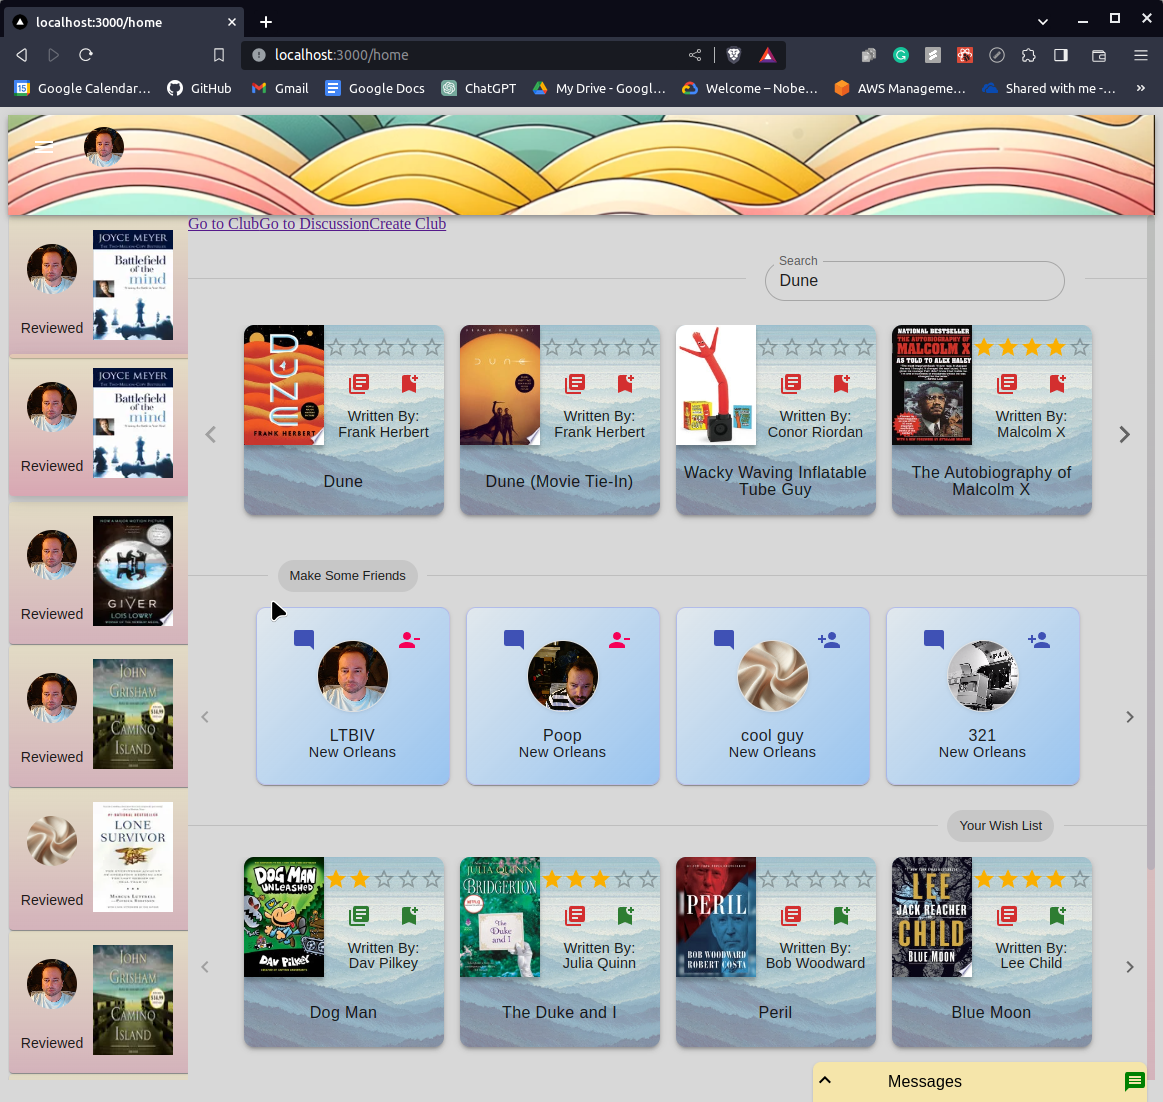
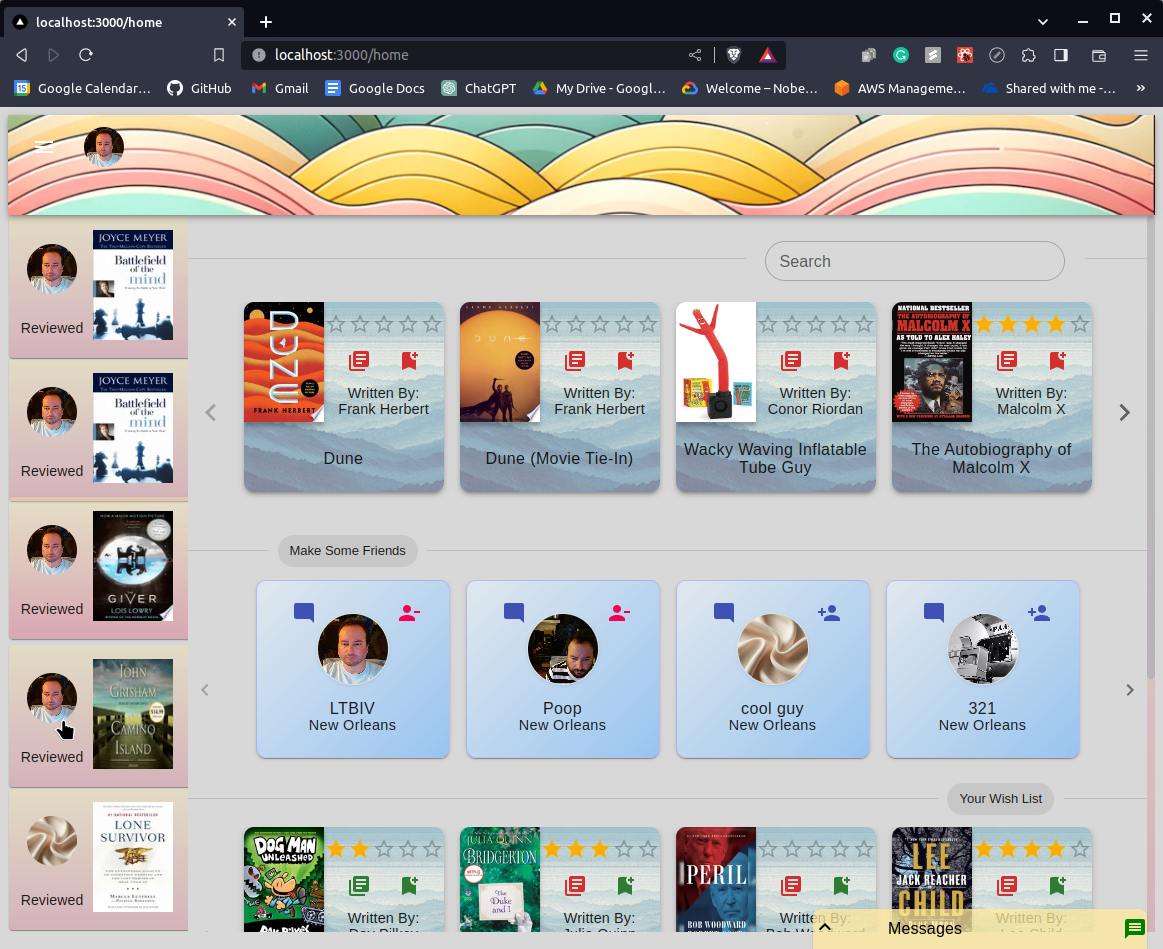
updated home page image in read me

diff --git a/src/pages/home.tsx b/src/pages/home.tsx
@@ -96,7 +96,7 @@ const Home: React.FC<HomeProps> = memo(
 
         {books && !isLoading && (
           <>
-            <Link href='/createClub'>Create Club</Link>
+            {/* <Link href='/createClub'>Create Club</Link> */}
             <ExploreBooksBox books={books} setBooks={setBooks} />
             <ExploreFriendsBox />
             <WishListBox />
